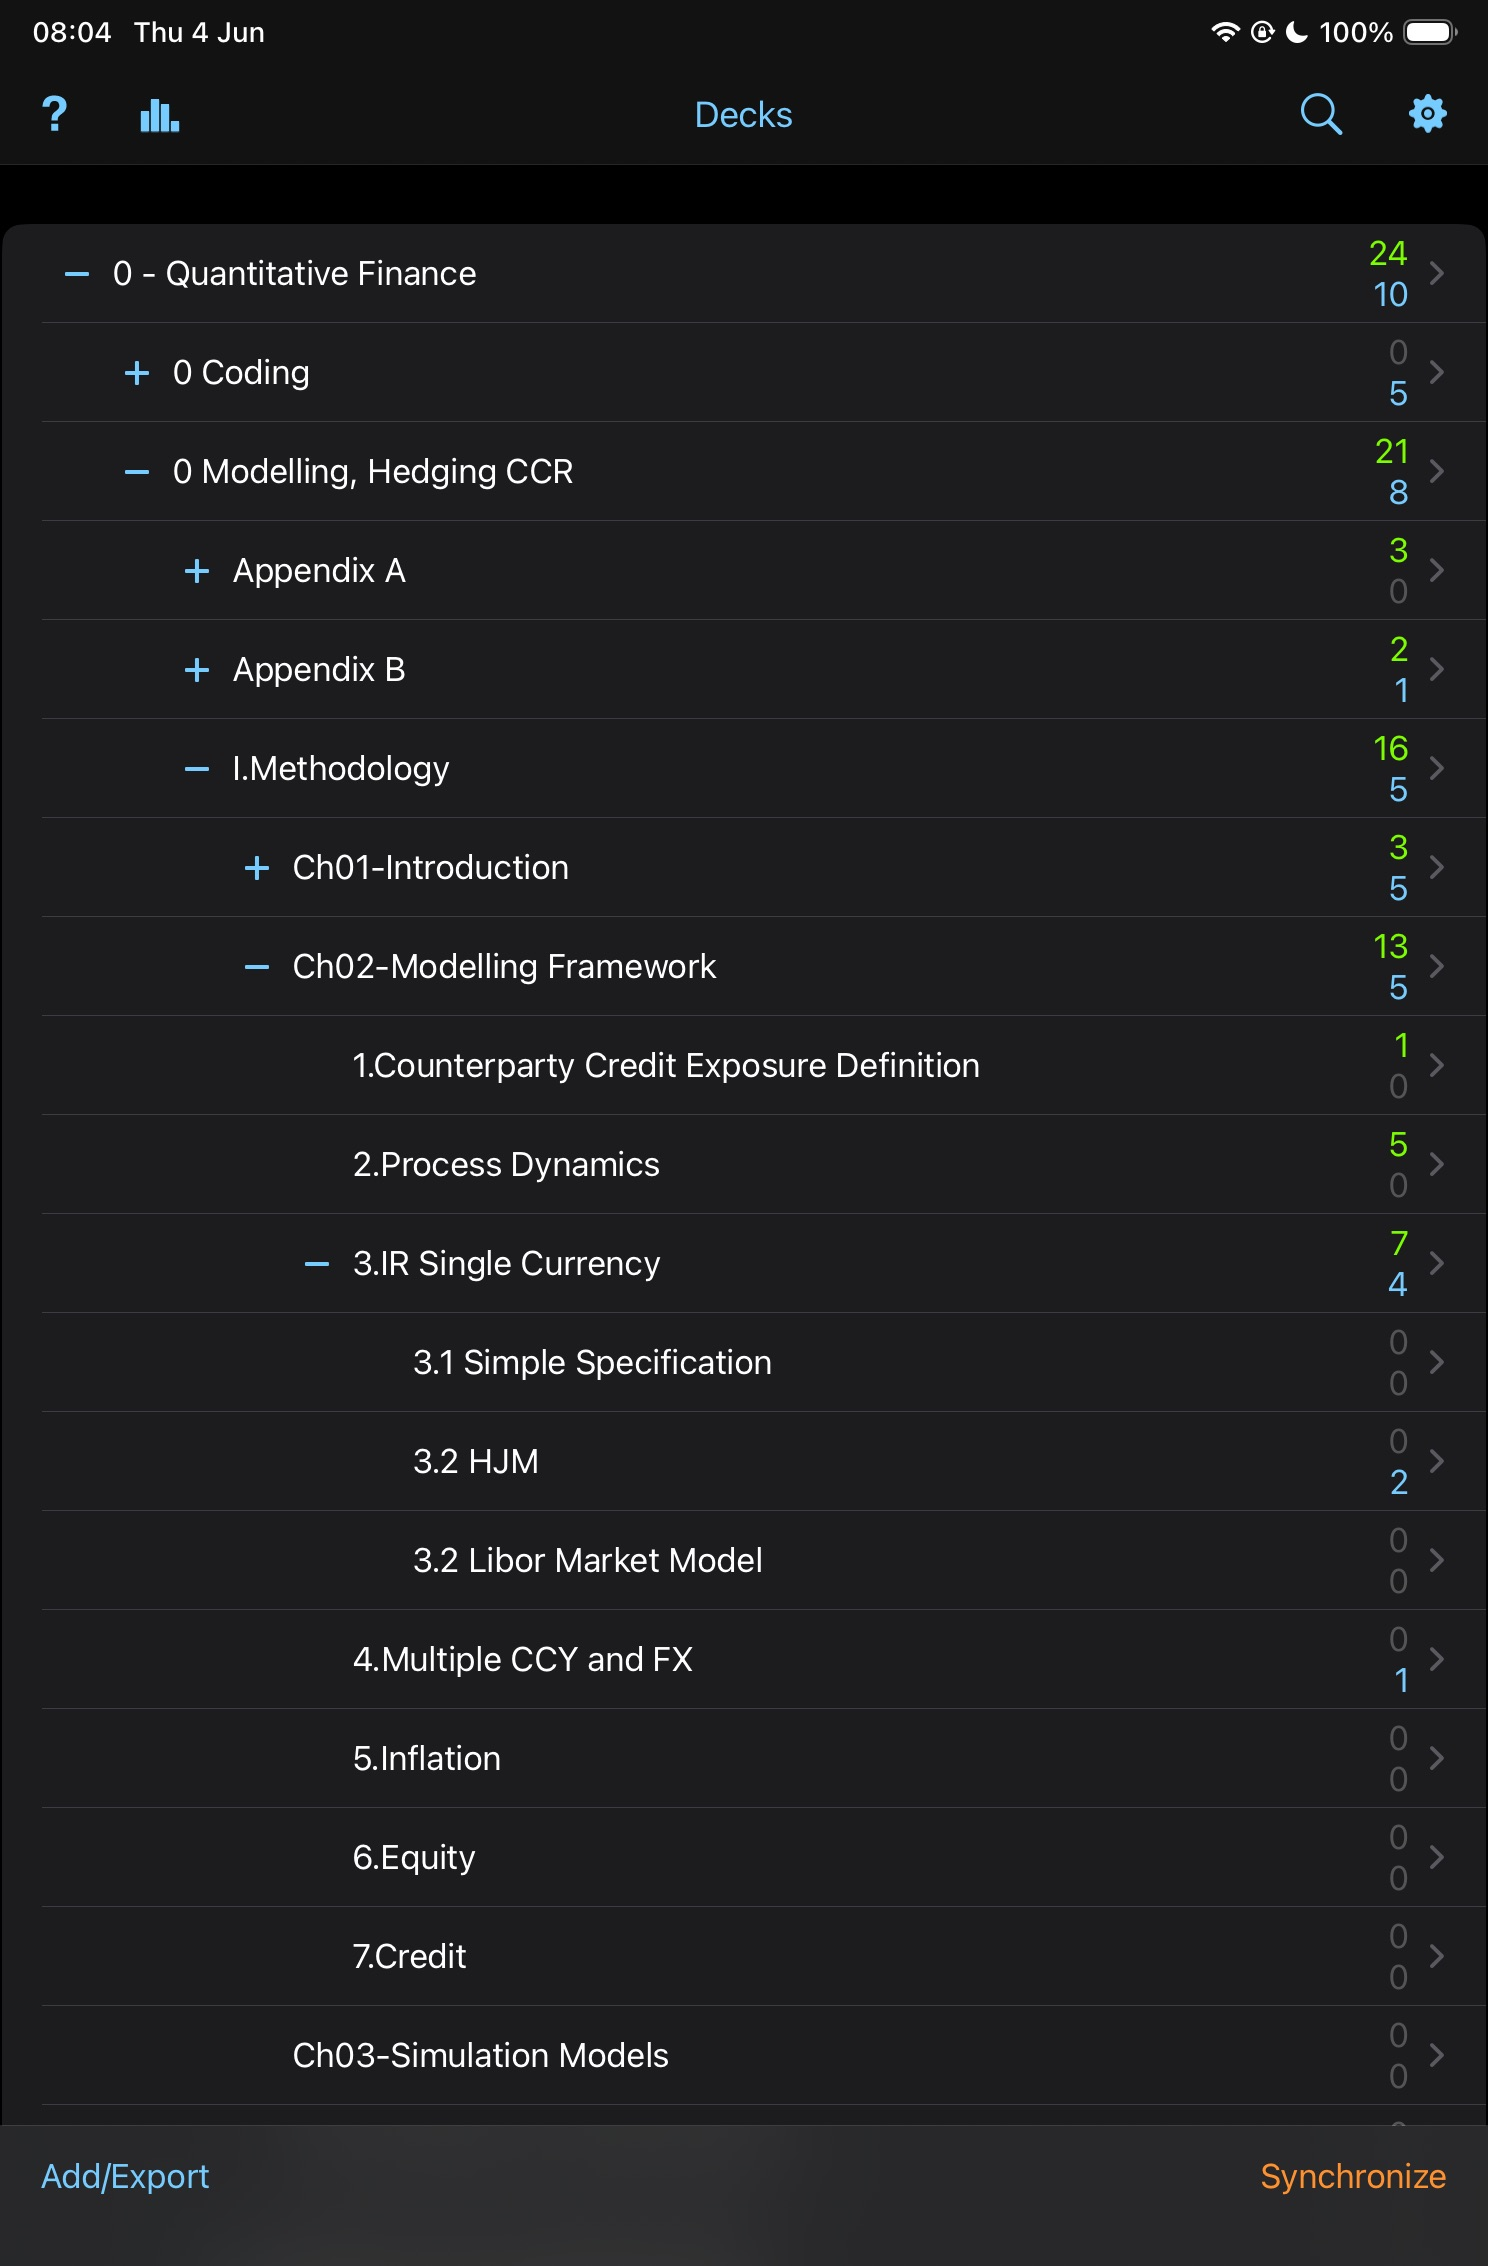
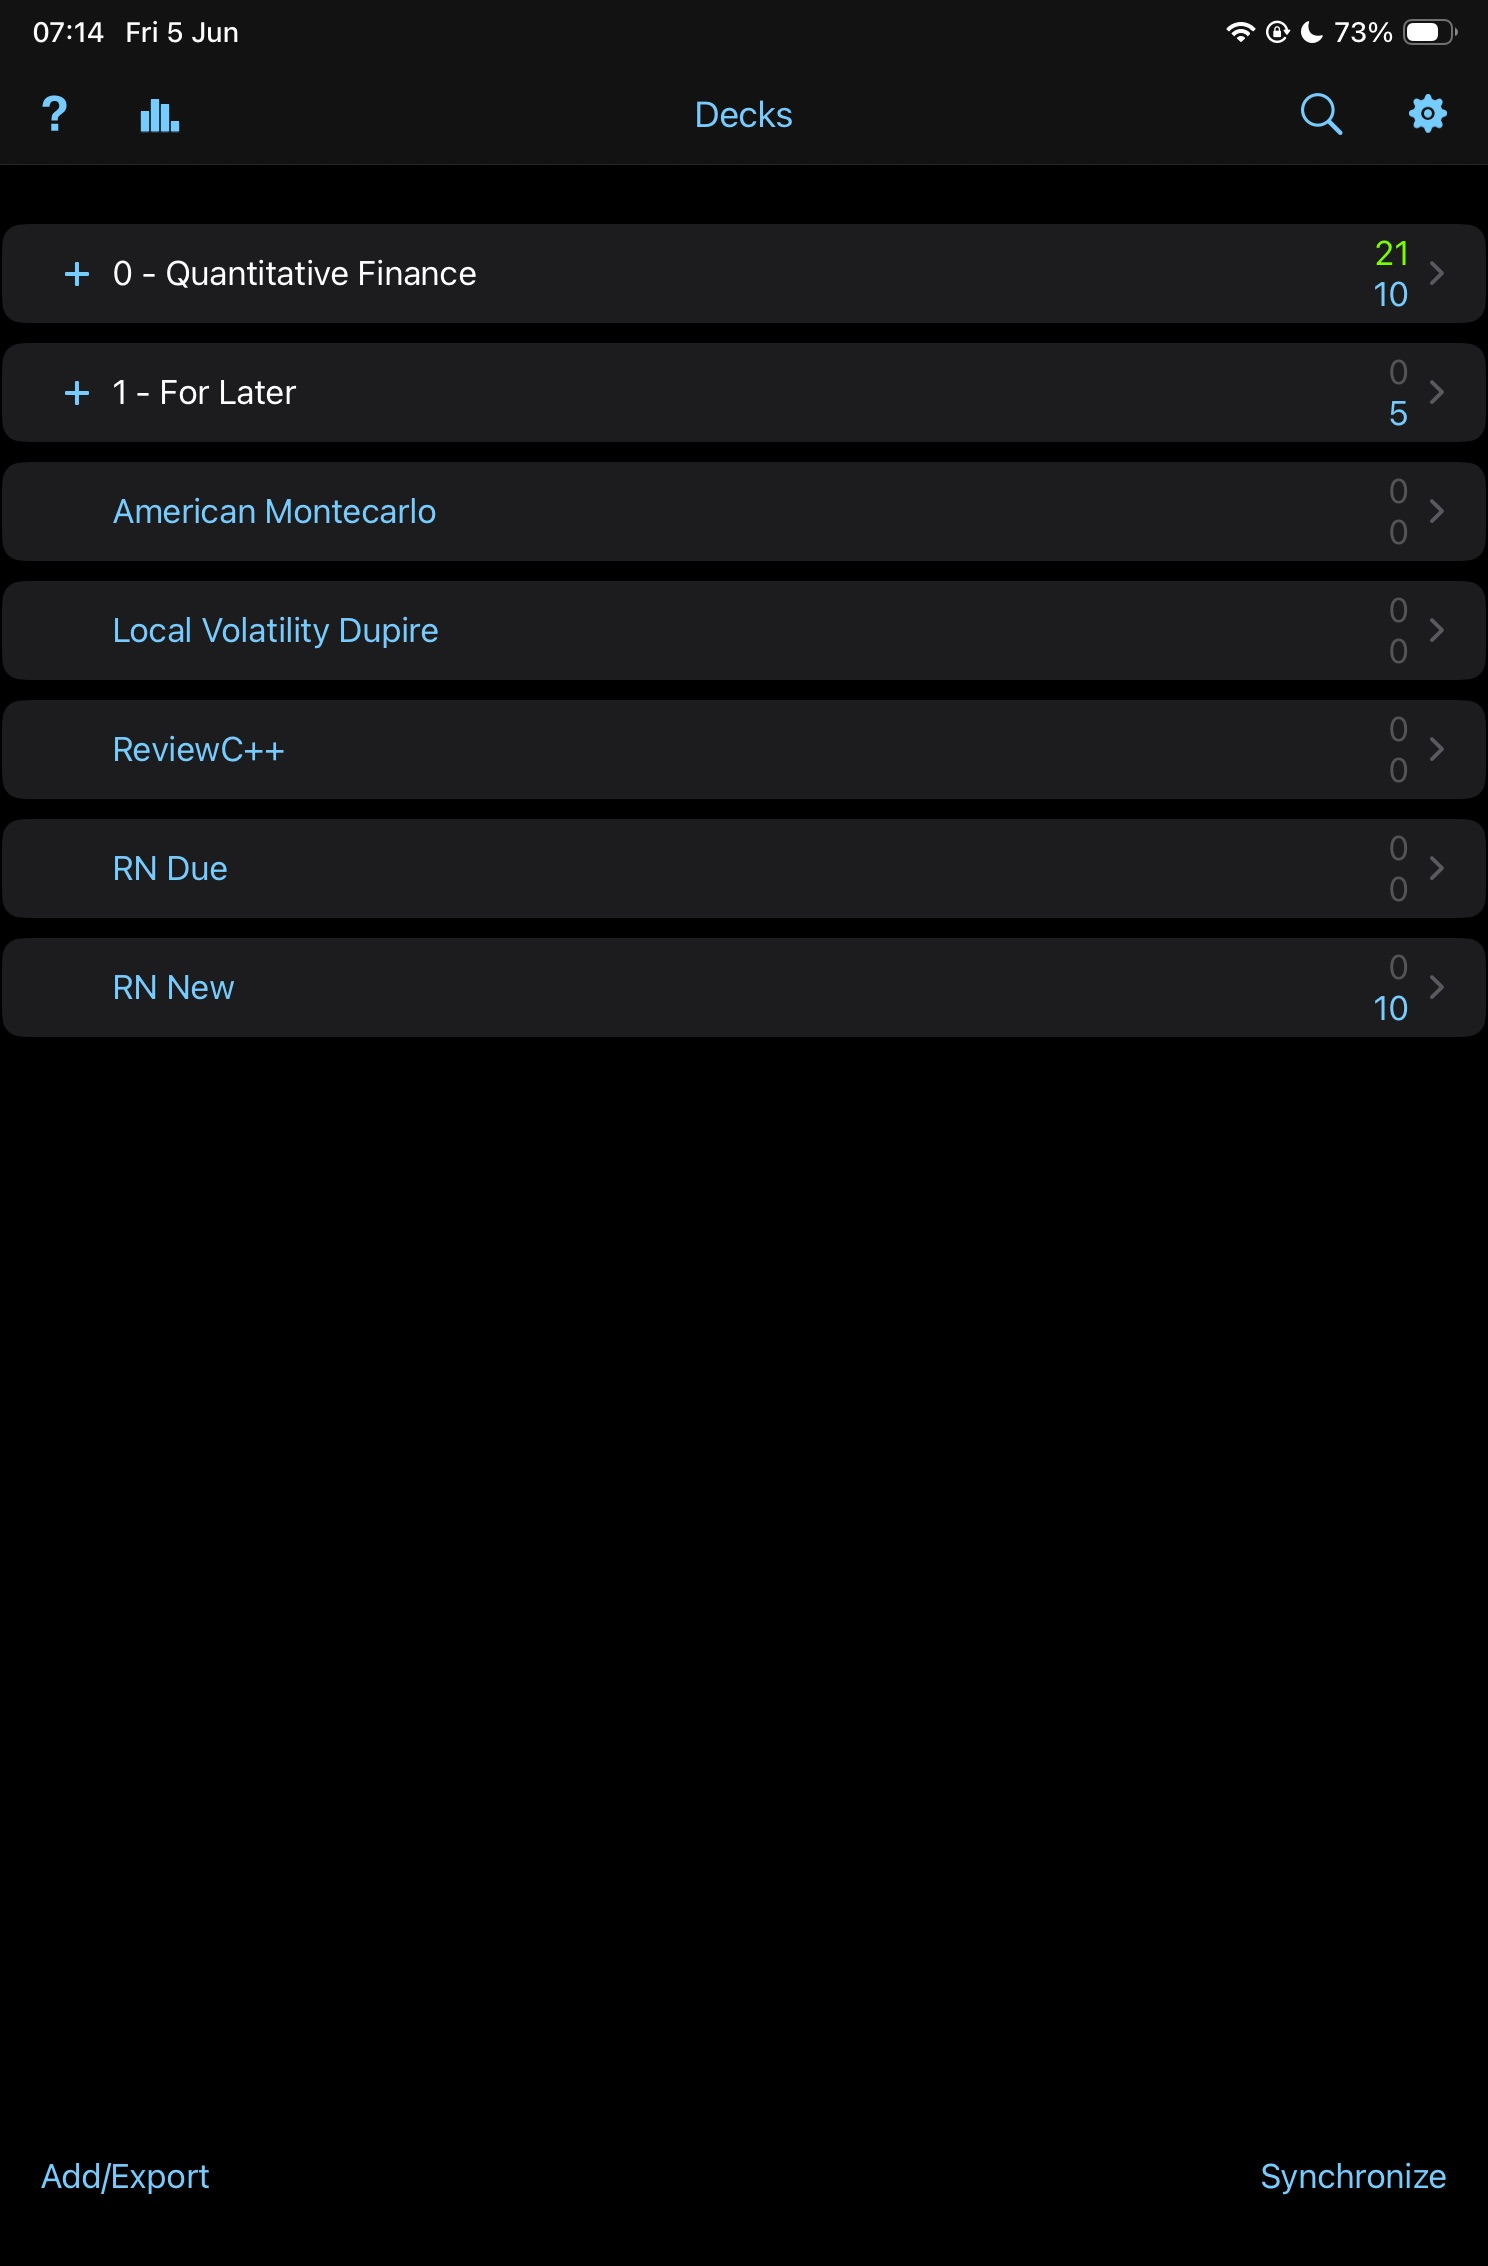
chore: create monthly subfolders for daily logs.

diff --git a/log/2026/06-Jun/06-03-2026.md b/log/2026/06-Jun/06-03-2026.md
@@ -1,0 +1,34 @@
+---
+title: ☀️ 3 June 2026
+type: log
+---
+# ☀️ 3rd June 2026 - Wednesday
+
+## 📚 Anki
+
+- Reviewed cards. Focusing on [[Modelling-Pricing-and-Hedging-Counterparty-Credit-Exposure#Section 2: IR Single Currency]]
+![Anki_3Jun_2026](/log/2026/images/Anki_3Jun_2026.jpeg).
+
+#anki
+
+---
+
+## 🧭 Exploring
+
+- Started also using Claude to explore another book [[Modern-Computational-Finance-AAD-and-Parallel-Simulations]]. How it works ? Create a project in Claude where I upload the book in "Files" and the asked Claude to start explaining the book. First from an general overview and then dig deeper into all the topics. Managed to have a general overview of some concepts:
+  - [[Modern-Computational-Finance-AAD-and-Parallel-Simulations#Pre-Chapter Foundations]]
+  - [[Modern-Computational-Finance-AAD-and-Parallel-Simulations#Chapter 1 — Effective C++ Principles]]
+  - [[Modern-Computational-Finance-AAD-and-Parallel-Simulations#Chapter 2 — Modern C++]]
+
+  Have to write Anki cards.
+
+#exploring
+
+---
+
+[Modelling-Pricing-and-Hedging-Counterparty-Credit-Exposure#Section 2: IR Single Currency]: <../../../books/Modelling-Pricing-and-Hedging-Counterparty-Credit-Exposure.md#Section 2: IR Single Currency> "Modelling CCR"
+[Modern-Computational-Finance-AAD-and-Parallel-Simulations]: ../../../books/Modern-Computational-Finance-AAD-and-Parallel-Simulations.md "AAD and // Simulation"
+[Modern-Computational-Finance-AAD-and-Parallel-Simulations#Chapter 1 — Effective C++ Principles]: <../../../books/Modern-Computational-Finance-AAD-and-Parallel-Simulations.md#Chapter 1 — Effective C++ Principles> "AAD and // Simulation"
+[Modern-Computational-Finance-AAD-and-Parallel-Simulations#Chapter 2 — Modern C++]: <../../../books/Modern-Computational-Finance-AAD-and-Parallel-Simulations.md#Chapter 2 — Modern C++> "AAD and // Simulation"
+
+[Modern-Computational-Finance-AAD-and-Parallel-Simulations#Pre-Chapter Foundations]: <../../../books/Modern-Computational-Finance-AAD-and-Parallel-Simulations.md#Pre-Chapter Foundations> "AAD and // Simulation"